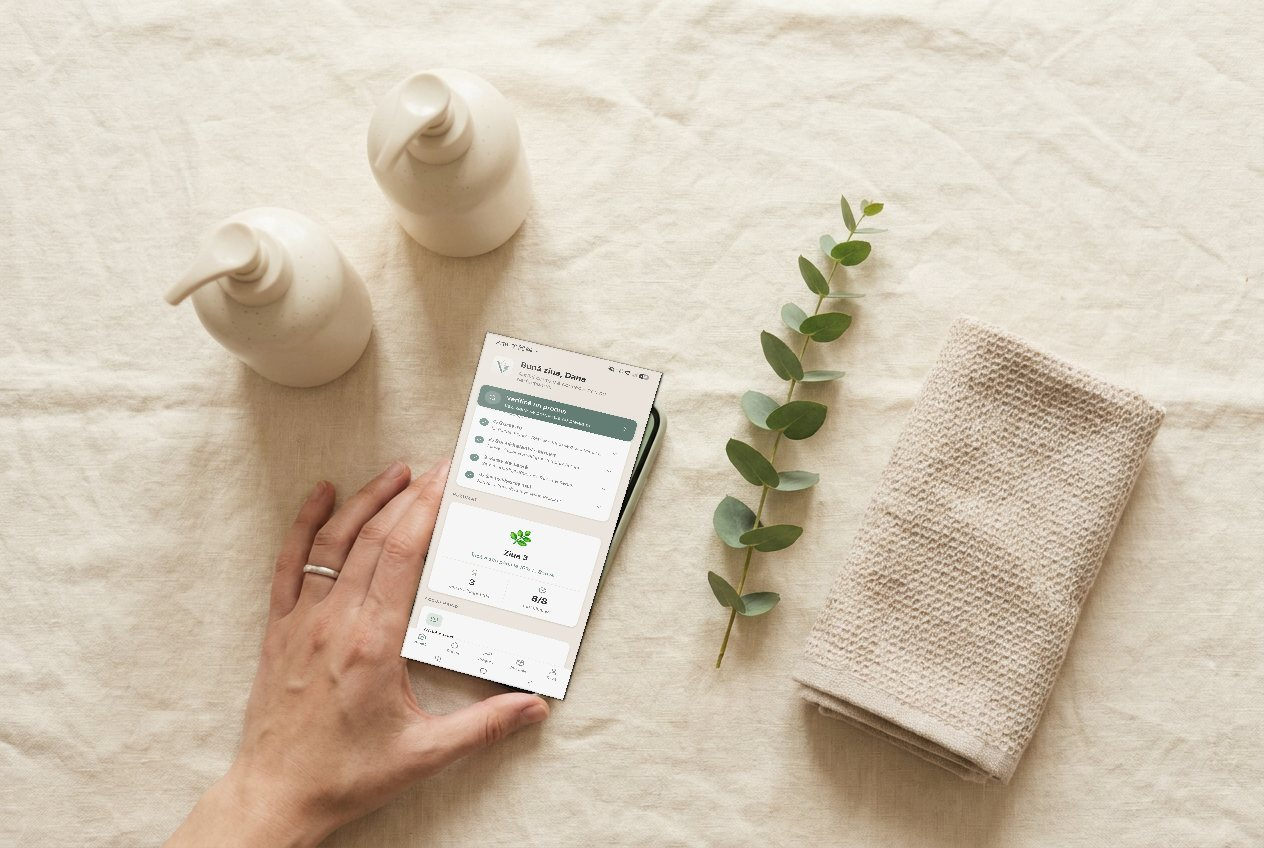
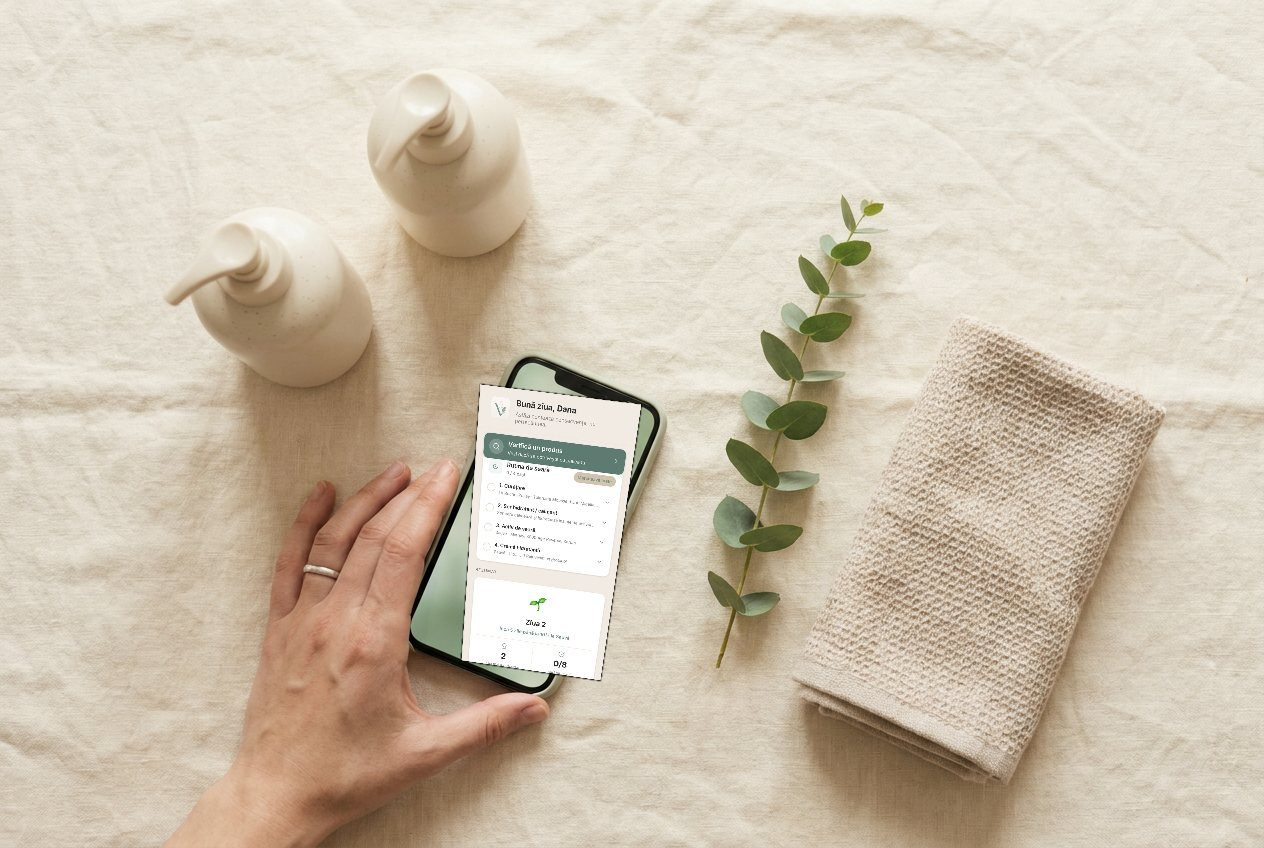
Image 3: full lifestyle flat-lay with real app screenshot composited onto phone

Changed region(s): [[0.3085, 0.3679, 0.5245, 0.8278]]

diff --git a/index.html b/index.html
@@ -424,10 +424,8 @@
       <h2>Progresul tău, la vedere.</h2>
       <p>Fiecare zi bifată se adună într-o serie. Vezi cât mai ai până la următoarea recompensă Sauvé, direct pe ecranul principal.</p>
     </div>
-    <div class="split-phone-media reveal">
-      <div class="phone-frame">
-        <img src="/assets/app-home.jpg" alt="Ecranul principal al aplicației Velthi: rutina de seară cu pași bifabili și seria de zile consecutive" width="640" height="1455" loading="lazy">
-      </div>
+    <div class="split-media reveal">
+      <img src="/assets/lifestyle-app.jpg" alt="Aplicația Velthi deschisă pe un telefon ținut în mână, cu rutina și seria de zile, lângă produse de îngrijire și eucalipt" width="1264" height="848" loading="lazy">
     </div>
   </div>
 </section>